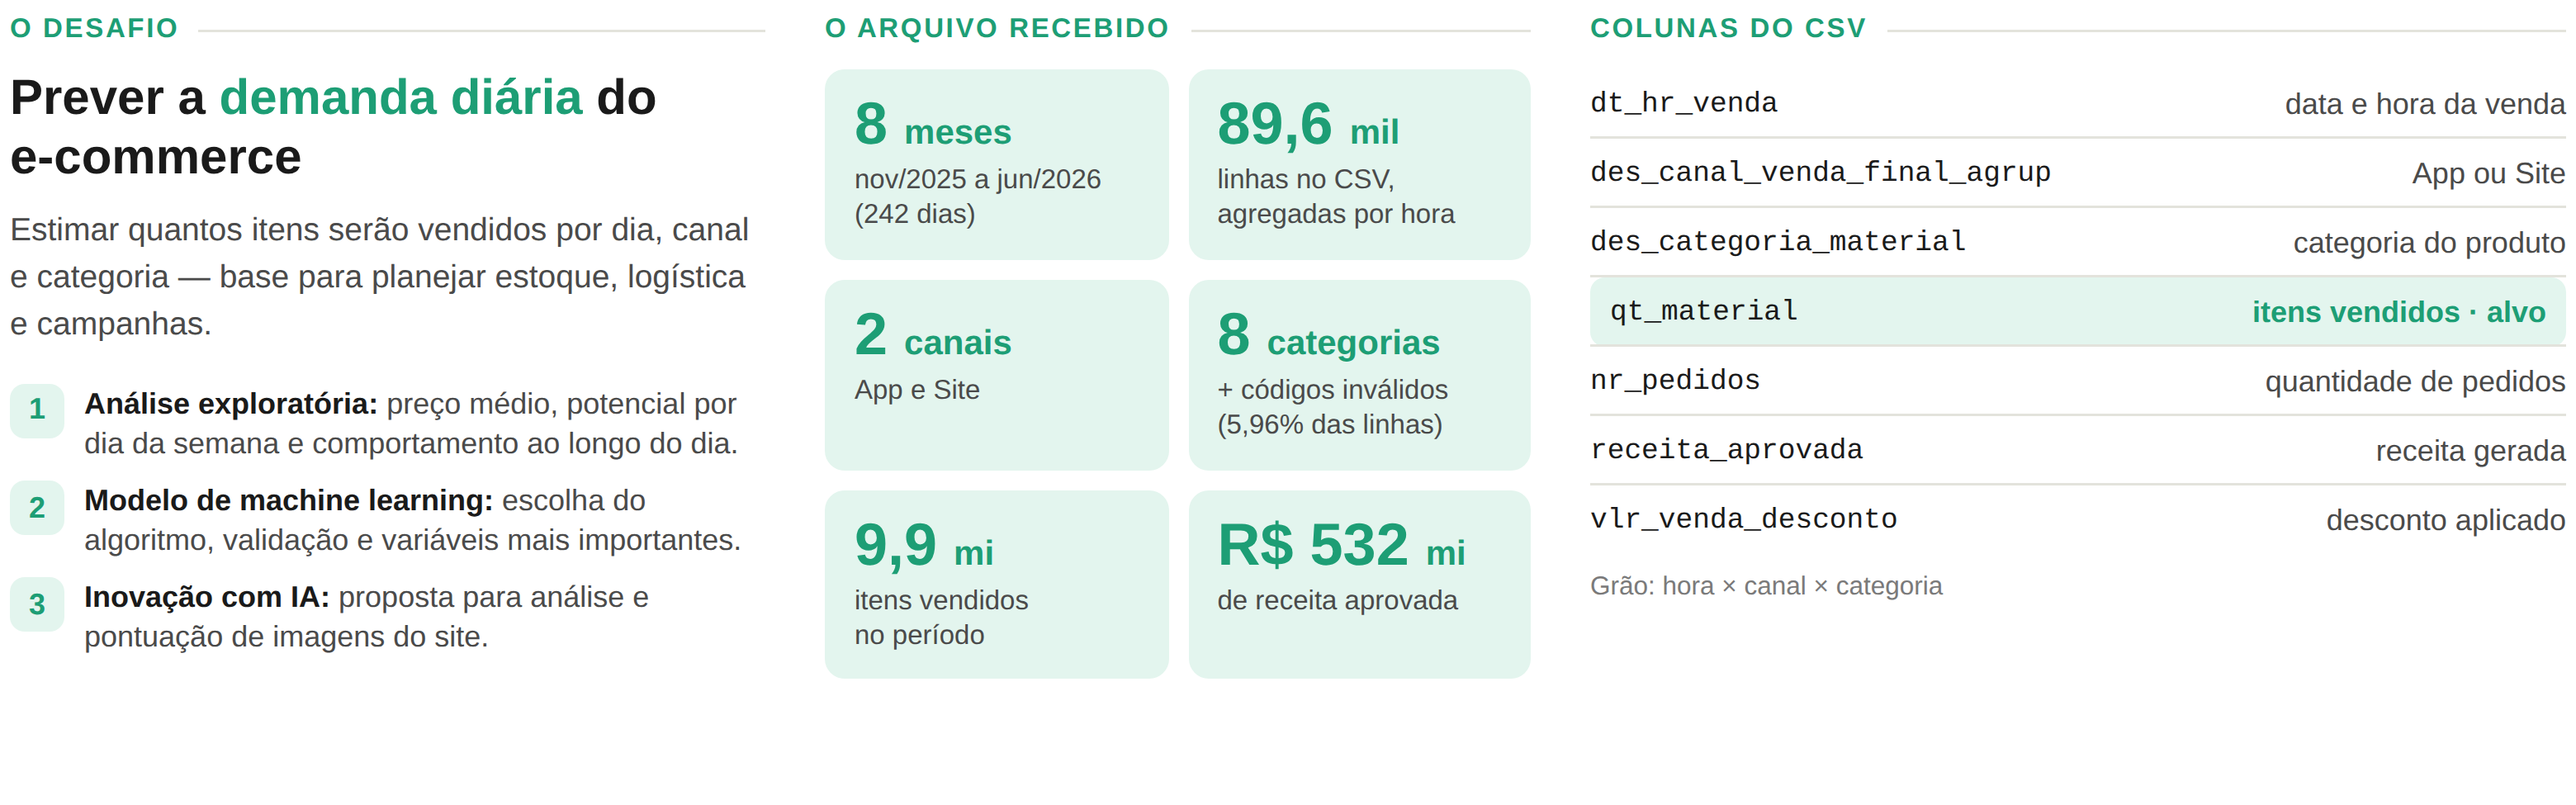
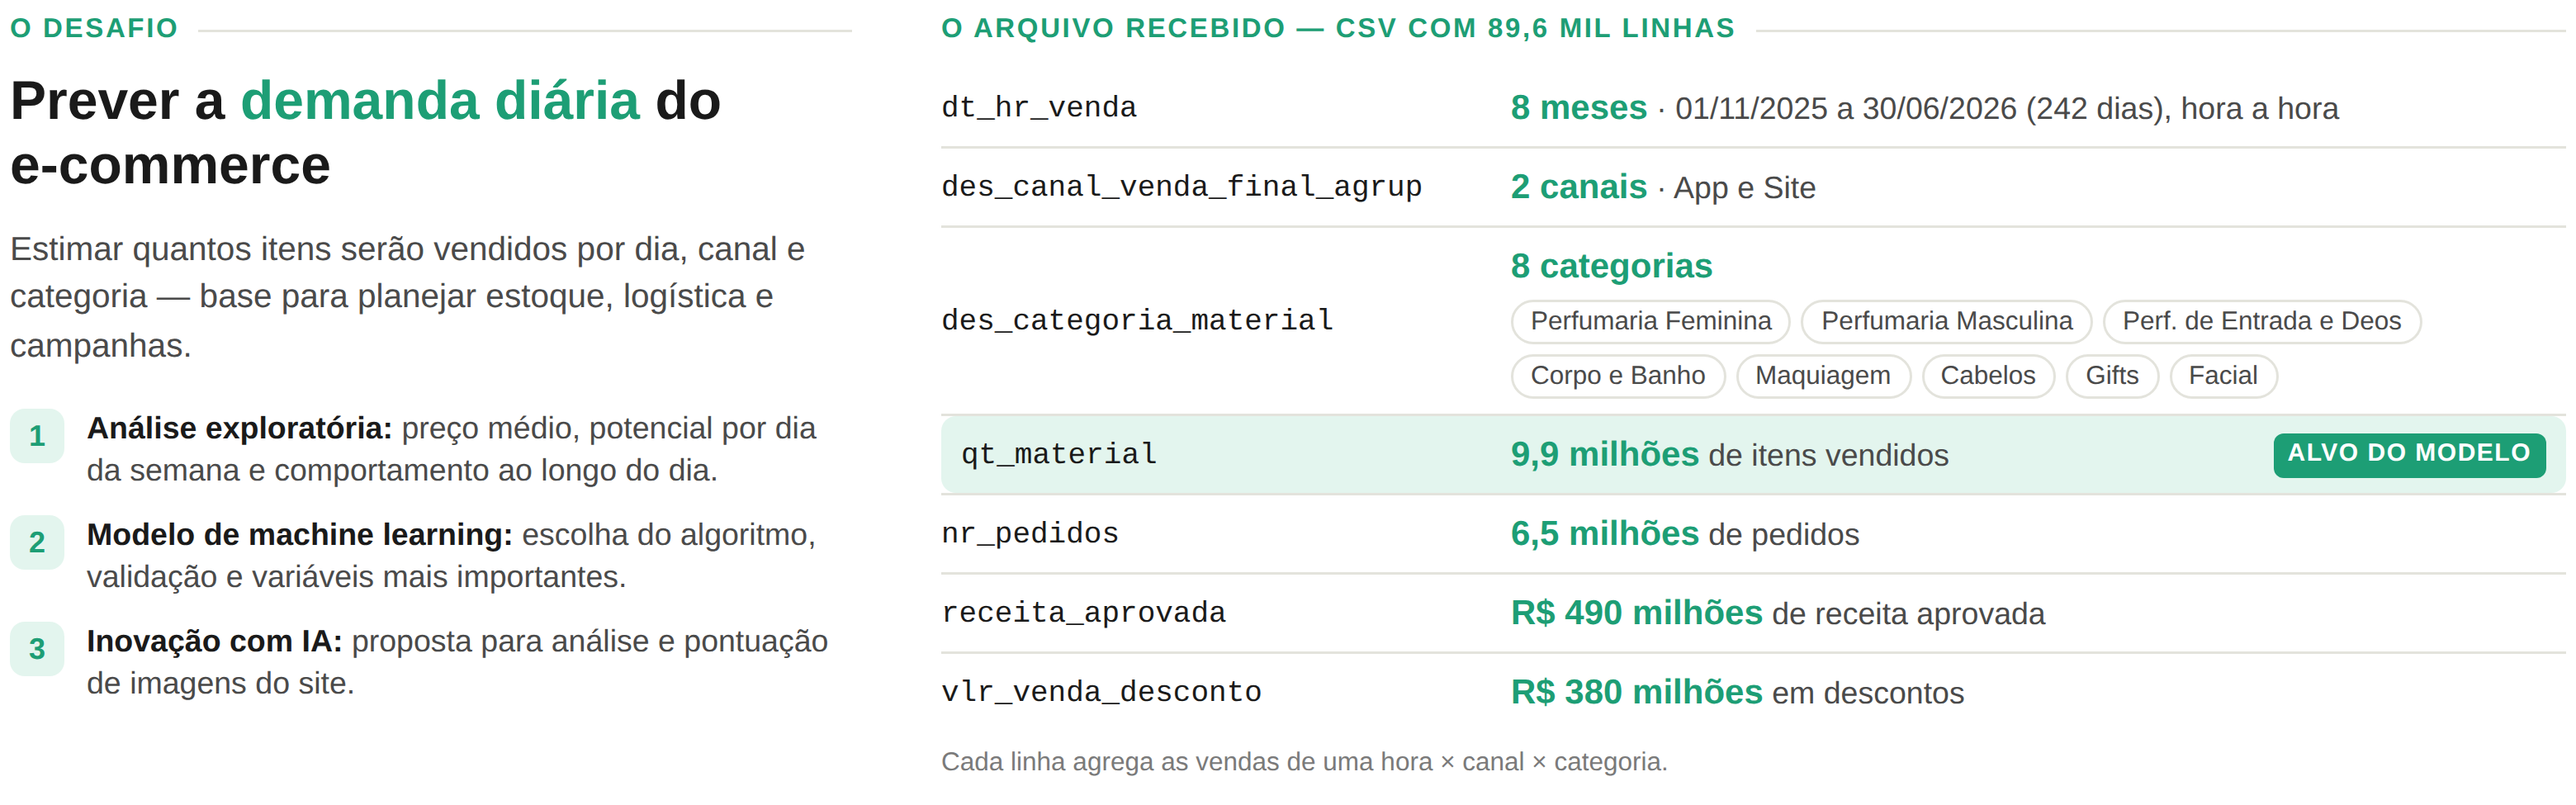
Widget do Resumo em duas colunas com informações por coluna do CSV
Claude-Session: https://claude.ai/code/session_01NUJZKTcM8cs9QBTcUeuacF

diff --git a/apresentacao/widgets/01_resumo.html b/apresentacao/widgets/01_resumo.html
@@ -18,7 +18,7 @@
     width: 1040px; height: 325px; background: var(--fundo);
     font-family: Arial, "Helvetica Neue", Helvetica, sans-serif; color: var(--tinta);
   }
-  .widget { display: grid; grid-template-columns: 305px 285px 1fr; gap: 24px; height: 100%; padding: 6px 4px; }
+  .widget { display: grid; grid-template-columns: 340px 1fr; gap: 36px; height: 100%; padding: 6px 4px; }
   .rotulo {
     font-size: 11px; font-weight: 700; letter-spacing: .08em; text-transform: uppercase;
     color: var(--verde); margin-bottom: 10px; display: flex; align-items: center; gap: 8px;
@@ -26,40 +26,35 @@
   .rotulo::after { content: ""; flex: 1; height: 1px; background: var(--linha); }
 
   /* coluna 1 — desafio */
-  .desafio h2 { font-size: 20px; line-height: 1.2; font-weight: 700; margin-bottom: 8px; }
+  .desafio h2 { font-size: 22px; line-height: 1.2; font-weight: 700; margin-bottom: 10px; }
   .desafio h2 span { color: var(--verde); }
-  .desafio p { font-size: 13px; line-height: 1.45; color: var(--tinta-2); margin-bottom: 14px; }
-  .pede { list-style: none; display: grid; gap: 7px; }
-  .pede li { display: grid; grid-template-columns: 22px 1fr; gap: 8px; font-size: 12px; line-height: 1.35; color: var(--tinta-2); }
+  .desafio p { font-size: 13.5px; line-height: 1.45; color: var(--tinta-2); margin-bottom: 16px; }
+  .pede { list-style: none; display: grid; gap: 9px; }
+  .pede li { display: grid; grid-template-columns: 22px 1fr; gap: 9px; font-size: 12.5px; line-height: 1.35; color: var(--tinta-2); }
   .pede b { color: var(--tinta); }
   .num {
     width: 22px; height: 22px; border-radius: 6px; background: var(--verde-claro); color: var(--verde);
     font-weight: 700; font-size: 12px; display: grid; place-items: center;
   }
 
-  /* coluna 2 — números */
-  .tiles { display: grid; grid-template-columns: 1fr 1fr; gap: 8px; }
-  .tile { background: var(--verde-claro); border-radius: 8px; padding: 10px 12px; }
-  .tile .valor { font-size: 24px; font-weight: 700; color: var(--verde); line-height: 1.05; }
-  .tile .valor small { font-size: 14px; font-weight: 700; }
-  .tile .desc { font-size: 11px; color: var(--tinta-2); margin-top: 3px; line-height: 1.3; }
-  .fonte { font-size: 10.5px; color: var(--tinta-3); margin-top: 9px; line-height: 1.35; }
-
-  /* coluna 3 — colunas do CSV */
+  /* coluna 2 — arquivo recebido */
   .colunas { width: 100%; border-collapse: collapse; }
-  .colunas td { padding: 6px 0; border-bottom: 1px solid var(--linha); vertical-align: middle; font-size: 12px; }
+  .colunas td { padding: 6px 0; border-bottom: 1px solid var(--linha); vertical-align: middle; }
   .colunas tr:last-child td { border-bottom: none; }
-  .colunas code { font-family: Consolas, "Courier New", monospace; font-size: 11.5px; color: var(--tinta); white-space: nowrap; }
-  .tipo {
-    display: inline-block; font-size: 9.5px; font-weight: 700; color: var(--tinta-3);
-    border: 1px solid var(--linha); border-radius: 4px; padding: 1px 5px; margin-left: 6px;
-  }
-  .colunas .d { color: var(--tinta-2); text-align: right; padding-left: 10px; white-space: nowrap; }
+  .colunas td.nome { width: 230px; }
+  .colunas code { font-family: Consolas, "Courier New", monospace; font-size: 12px; color: var(--tinta); white-space: nowrap; }
+  .info { font-size: 12.5px; color: var(--tinta-2); line-height: 1.35; }
+  .info b { color: var(--verde); font-size: 14px; }
   .alvo td { background: var(--verde-claro); }
   .alvo td:first-child { border-radius: 6px 0 0 6px; padding-left: 8px; }
   .alvo td:last-child { border-radius: 0 6px 6px 0; padding-right: 8px; }
-  .alvo .d { color: var(--verde); font-weight: 700; }
-  .grao { font-size: 10.5px; color: var(--tinta-3); margin-top: 8px; }
+  .selo {
+    float: right; font-size: 10px; font-weight: 700; letter-spacing: .05em; text-transform: uppercase;
+    color: #fff; background: var(--verde); border-radius: 4px; padding: 2px 6px; margin-top: 1px;
+  }
+  .chips { display: flex; flex-wrap: wrap; gap: 4px; margin-top: 4px; }
+  .chip { font-size: 10.5px; color: var(--tinta-2); border: 1px solid var(--linha); border-radius: 10px; padding: 1px 7px; }
+  .rodape { font-size: 10.5px; color: var(--tinta-3); margin-top: 7px; }
 </style>
 </head>
 <body>
@@ -77,29 +72,45 @@
   </section>
 
   <section>
-    <div class="rotulo">O arquivo recebido</div>
-    <div class="tiles">
-      <div class="tile"><div class="valor">8 <small>meses</small></div><div class="desc">nov/2025 a jun/2026<br>(242 dias)</div></div>
-      <div class="tile"><div class="valor">89,6 <small>mil</small></div><div class="desc">linhas no CSV,<br>agregadas por hora</div></div>
-      <div class="tile"><div class="valor">2 <small>canais</small></div><div class="desc">App e Site</div></div>
-      <div class="tile"><div class="valor">8 <small>categorias</small></div><div class="desc">+ códigos inválidos<br>(5,96% das linhas)</div></div>
-      <div class="tile"><div class="valor">9,9 <small>mi</small></div><div class="desc">itens vendidos<br>no período</div></div>
-      <div class="tile"><div class="valor">R$ 532 <small>mi</small></div><div class="desc">de receita aprovada</div></div>
-    </div>
-  </section>
-
-  <section>
-    <div class="rotulo">Colunas do CSV</div>
+    <div class="rotulo">O arquivo recebido — CSV com 89,6 mil linhas</div>
     <table class="colunas">
-      <tr><td><code>dt_hr_venda</code></td><td class="d">data e hora da venda</td></tr>
-      <tr><td><code>des_canal_venda_final_agrup</code></td><td class="d">App ou Site</td></tr>
-      <tr><td><code>des_categoria_material</code></td><td class="d">categoria do produto</td></tr>
-      <tr class="alvo"><td><code>qt_material</code></td><td class="d">itens vendidos · <b>alvo</b></td></tr>
-      <tr><td><code>nr_pedidos</code></td><td class="d">quantidade de pedidos</td></tr>
-      <tr><td><code>receita_aprovada</code></td><td class="d">receita gerada</td></tr>
-      <tr><td><code>vlr_venda_desconto</code></td><td class="d">desconto aplicado</td></tr>
+      <tr>
+        <td class="nome"><code>dt_hr_venda</code></td>
+        <td class="info"><b>8 meses</b> · 01/11/2025 a 30/06/2026 (242 dias), hora a hora</td>
+      </tr>
+      <tr>
+        <td class="nome"><code>des_canal_venda_final_agrup</code></td>
+        <td class="info"><b>2 canais</b> · App e Site</td>
+      </tr>
+      <tr>
+        <td class="nome"><code>des_categoria_material</code></td>
+        <td class="info"><b>8 categorias</b>
+          <div class="chips">
+            <span class="chip">Perfumaria Feminina</span><span class="chip">Perfumaria Masculina</span>
+            <span class="chip">Perf. de Entrada e Deos</span><span class="chip">Corpo e Banho</span>
+            <span class="chip">Maquiagem</span><span class="chip">Cabelos</span>
+            <span class="chip">Gifts</span><span class="chip">Facial</span>
+          </div>
+        </td>
+      </tr>
+      <tr class="alvo">
+        <td class="nome"><code>qt_material</code></td>
+        <td class="info"><span class="selo">alvo do modelo</span><b>9,9 milhões</b> de itens vendidos</td>
+      </tr>
+      <tr>
+        <td class="nome"><code>nr_pedidos</code></td>
+        <td class="info"><b>6,5 milhões</b> de pedidos</td>
+      </tr>
+      <tr>
+        <td class="nome"><code>receita_aprovada</code></td>
+        <td class="info"><b>R$ 490 milhões</b> de receita aprovada</td>
+      </tr>
+      <tr>
+        <td class="nome"><code>vlr_venda_desconto</code></td>
+        <td class="info"><b>R$ 380 milhões</b> em descontos</td>
+      </tr>
     </table>
-    <div class="grao">Grão: hora × canal × categoria</div>
+    <div class="rodape">Cada linha agrega as vendas de uma hora × canal × categoria.</div>
   </section>
 
 </div>
